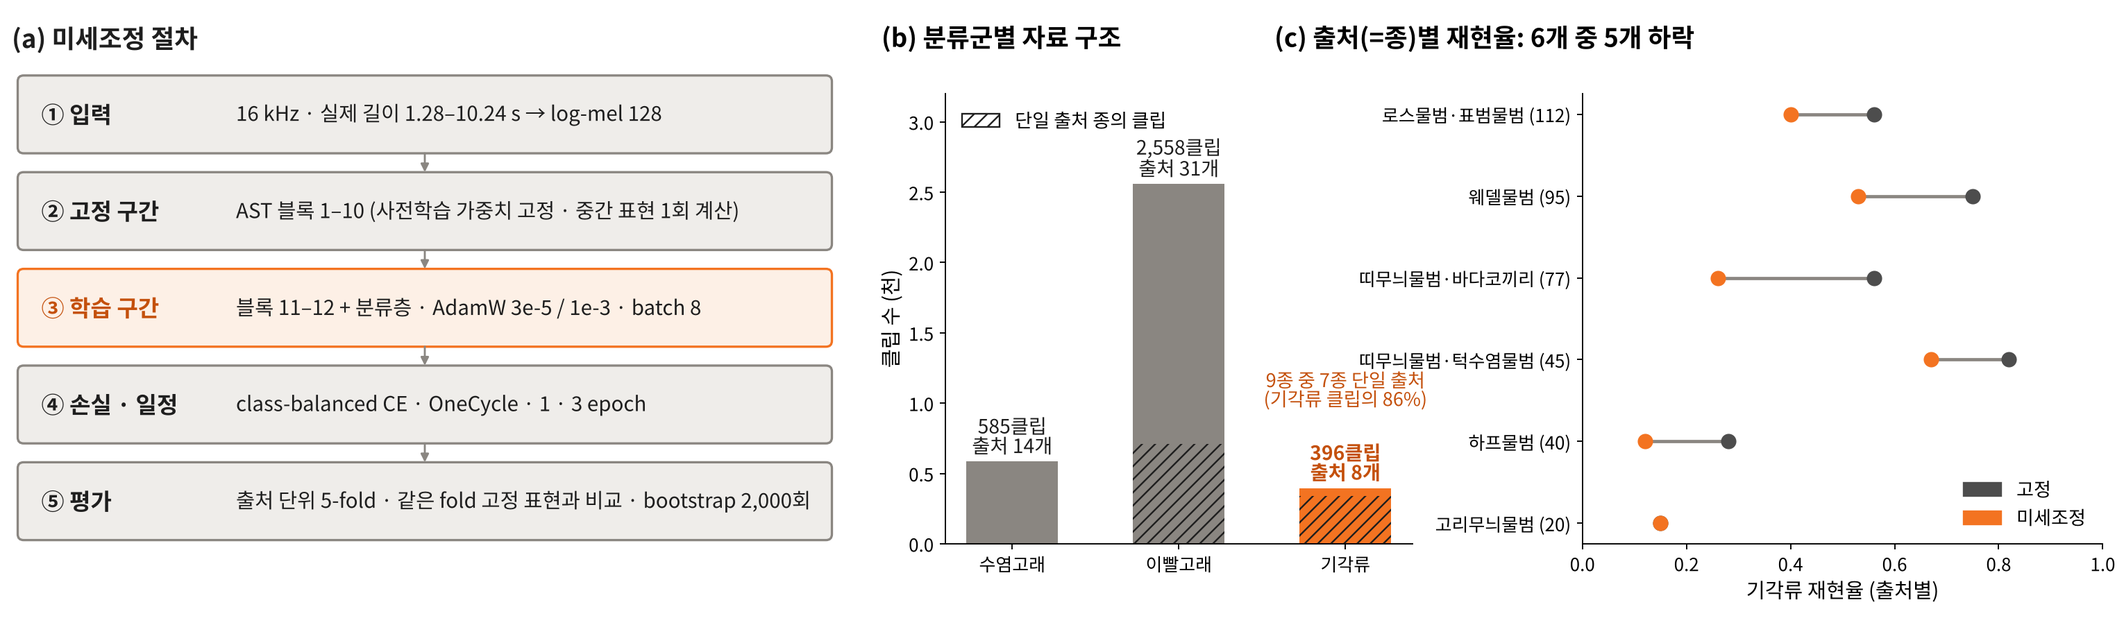
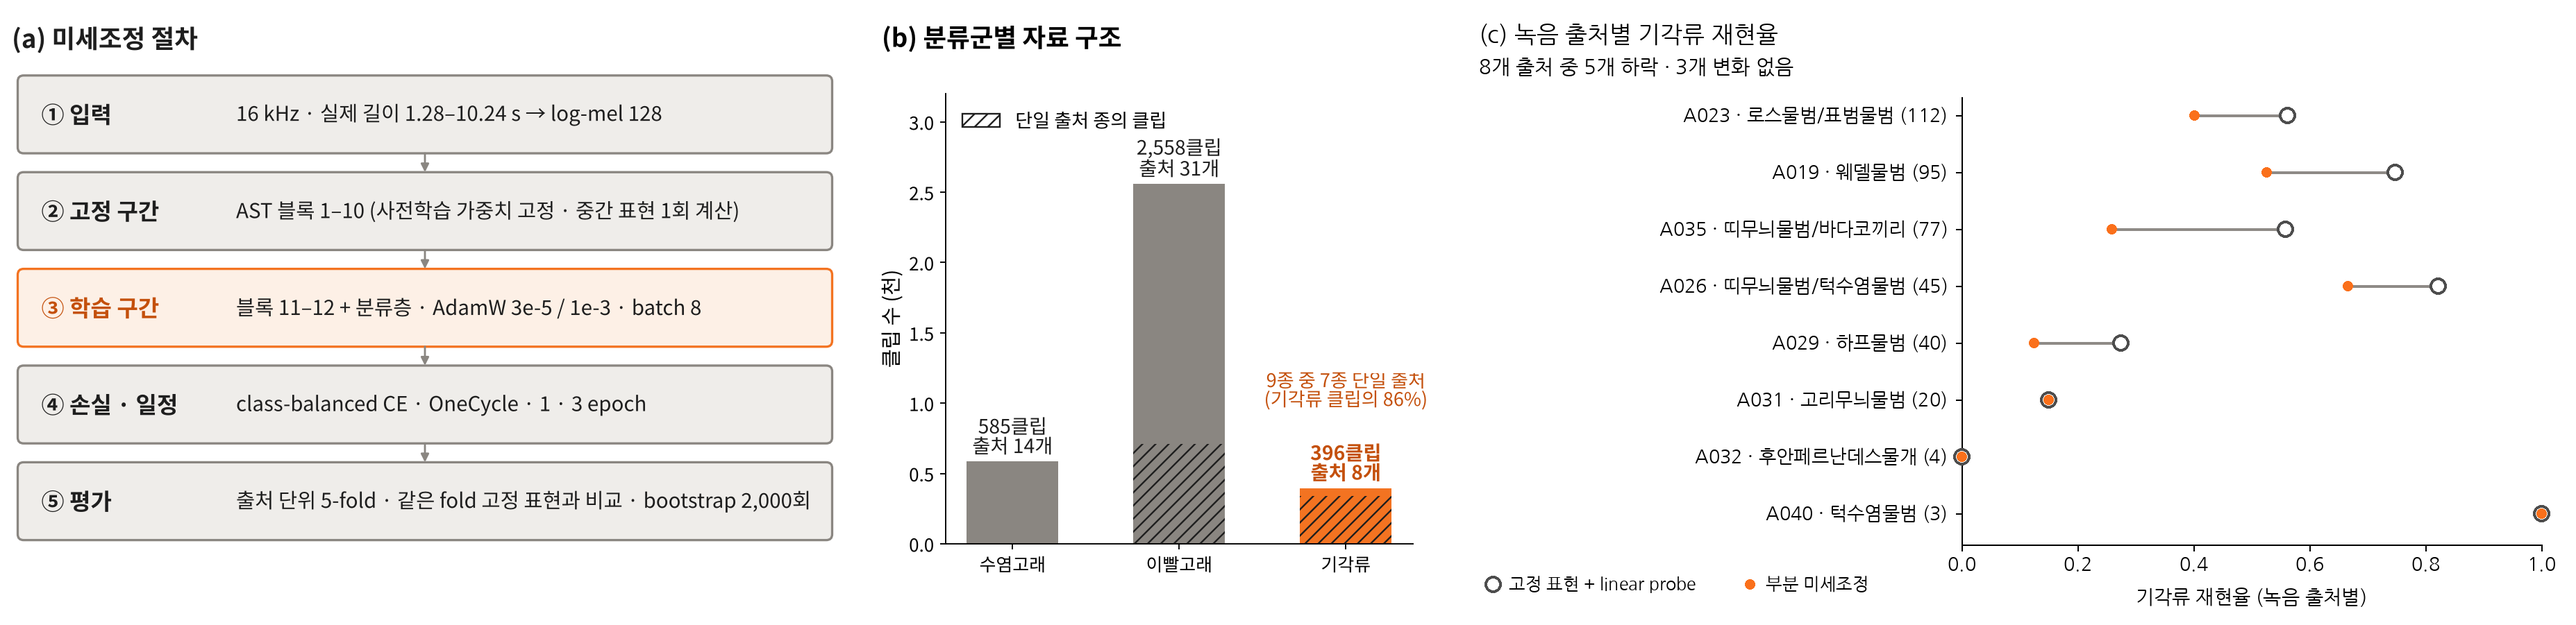
docs: align pinniped source recall caption and figure with evaluation JSON
Show all eight recording sources: recall decreases in five and is unchanged in three. Add source IDs and the previously omitted A032/A040 rows to panel (c), preserving the committed recall values and the other panels.

Only README.md and docs/figures/ast_finetune_pinniped.png change. No training, evaluation, result JSON, overall BA, per-taxon analysis or validation scope changes.

diff --git a/README.md b/README.md
@@ -70,7 +70,7 @@ Watkins Marine Mammal Sound Database에 공개 AI 레퍼런스 표현(AST · VGG
 <p align="center"><sub>데이터 구조: 종이 녹음 출처와 샘플레이트 계열에 묶여 있음(nested)</sub></p>
 
 <p align="center"><img src="docs/figures/ast_finetune_pinniped.png" width="95%" alt="AST fine-tuning pinniped recall by recording source"></p>
-<p align="center"><sub>기각류 재현율의 출처별 분해: 6개 출처 중 5개에서 하락</sub></p>
+<p align="center"><sub>기각류 재현율의 출처별 분해: 8개 출처 중 5개에서 하락, 3개에서 변화 없음</sub></p>
 
 </details>
 
